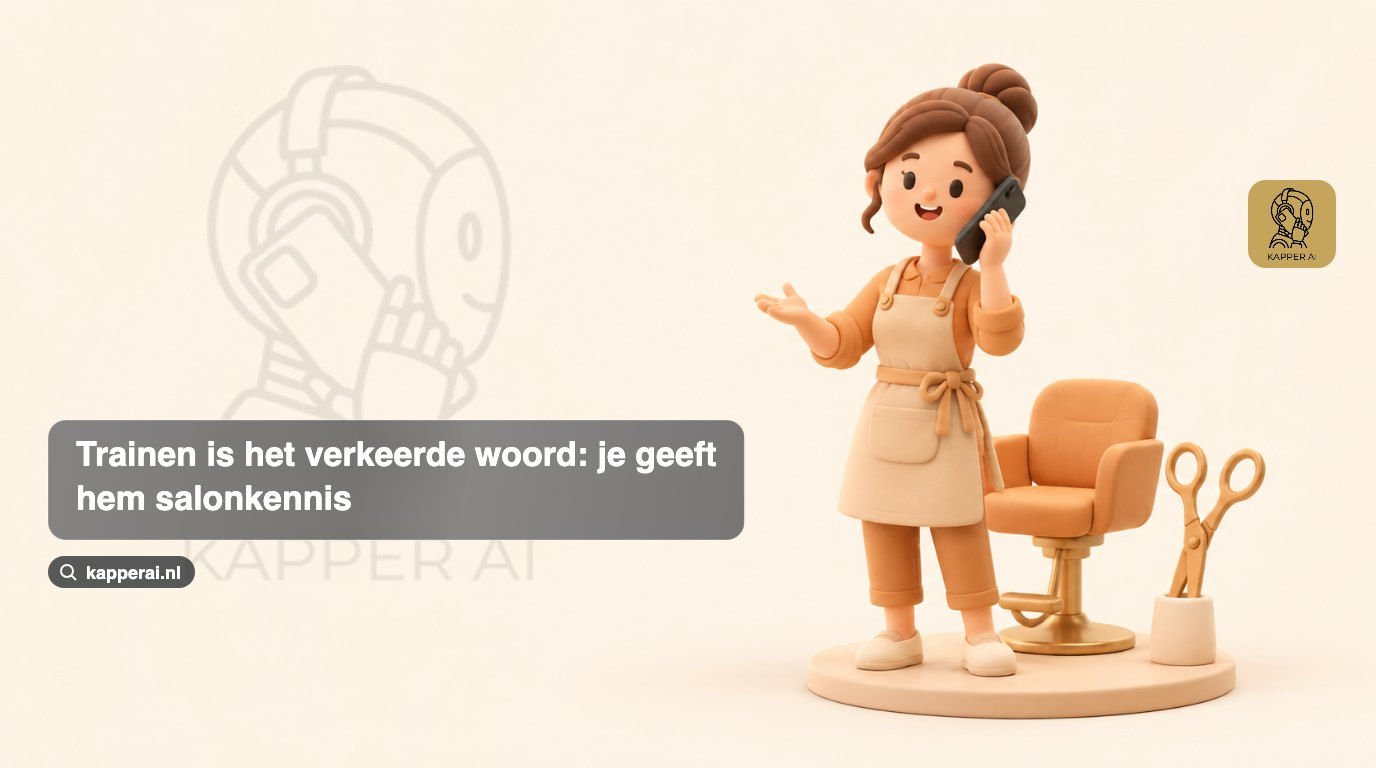
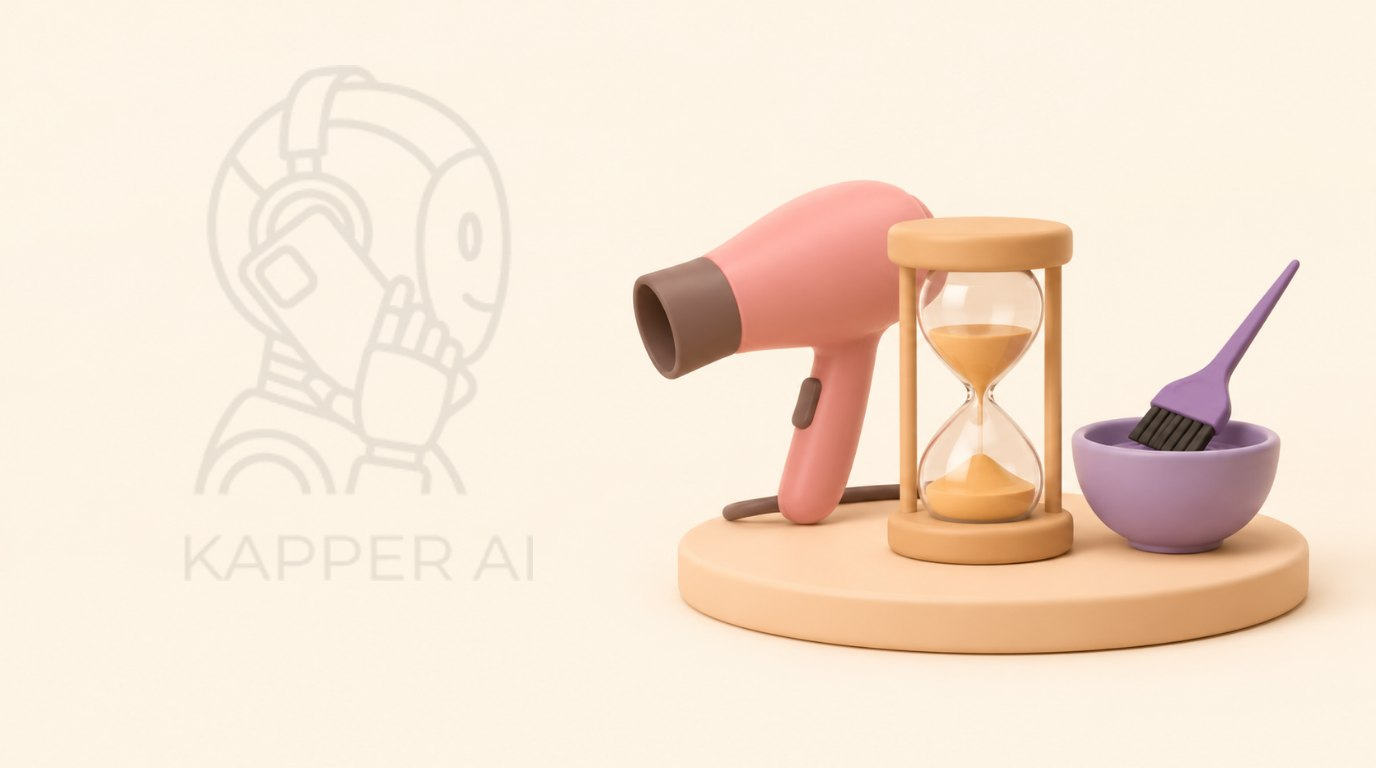
blog: own pictures for AI-telefonist trainen voor je kapsalon: hoeveel data heb je nodig?

diff --git a/posts/ai-telefonist-trainen-kapsalon-hoeveel-data.md b/posts/ai-telefonist-trainen-kapsalon-hoeveel-data.md
@@ -25,8 +25,6 @@ In dit artikel lees je welke 7 bronnen dat zijn, hoe groot elk ervan moet zijn, 
 
 ## Trainen is het verkeerde woord: je geeft hem salonkennis
 
-![Trainen is het verkeerde woord: je geeft hem salonkennis](/images/blog/ai-telefonist-trainen-kapsalon-hoeveel-data-2.jpg)
-
 Bij "een AI trainen" denken veel salonhouders aan duizenden gesprekken die je moet aanleveren voordat het systeem iets snapt. Zo is een taalmodel ooit gebouwd, maar dat werk hebben de makers al gedaan. Wat er voor jouw salon gebeurt, is veel kleiner: de telefonist krijgt een kennisbank met jouw informatie en een set instructies over hoe hij zich gedraagt. Verander je een prijs of een openingstijd, dan pas je 1 regel aan en klopt het antwoord bij het volgende telefoontje.
 
 ### Wat de telefonist al kan
@@ -58,6 +56,8 @@ Bij elkaar is dat 3 tot 5 A4. Veel ervan staat al ergens: je prijslijst op je we
 Wat er niet in de lijst staat, is net zo belangrijk: geen opnames, geen klantenbestand, geen marketingteksten en geen lange uitleg over je salonfilosofie. Hoe meer losse tekst je aanlevert, hoe groter de kans dat de telefonist een alinea gaat voorlezen waar een beller 1 zin wil horen.
 
 ## Je behandelmenu: de bron die het vaakst misgaat
+
+![Je behandelmenu: de bron die het vaakst misgaat](/images/blog/ai-telefonist-trainen-kapsalon-hoeveel-data-2.jpg)
 
 De agenda is de belangrijkste koppeling, maar het behandelmenu is de belangrijkste tekst. Hier gaat het in de praktijk het vaakst mis, omdat de duur in je boekingssysteem vaak niet de duur is die je echt nodig hebt. Een telefonist die "knippen dames" voor 30 minuten inplant terwijl jij met wassen en föhnen 45 minuten kwijt bent, schuift je hele middag op. Na 4 van die boekingen loop je een uur achter.
 
